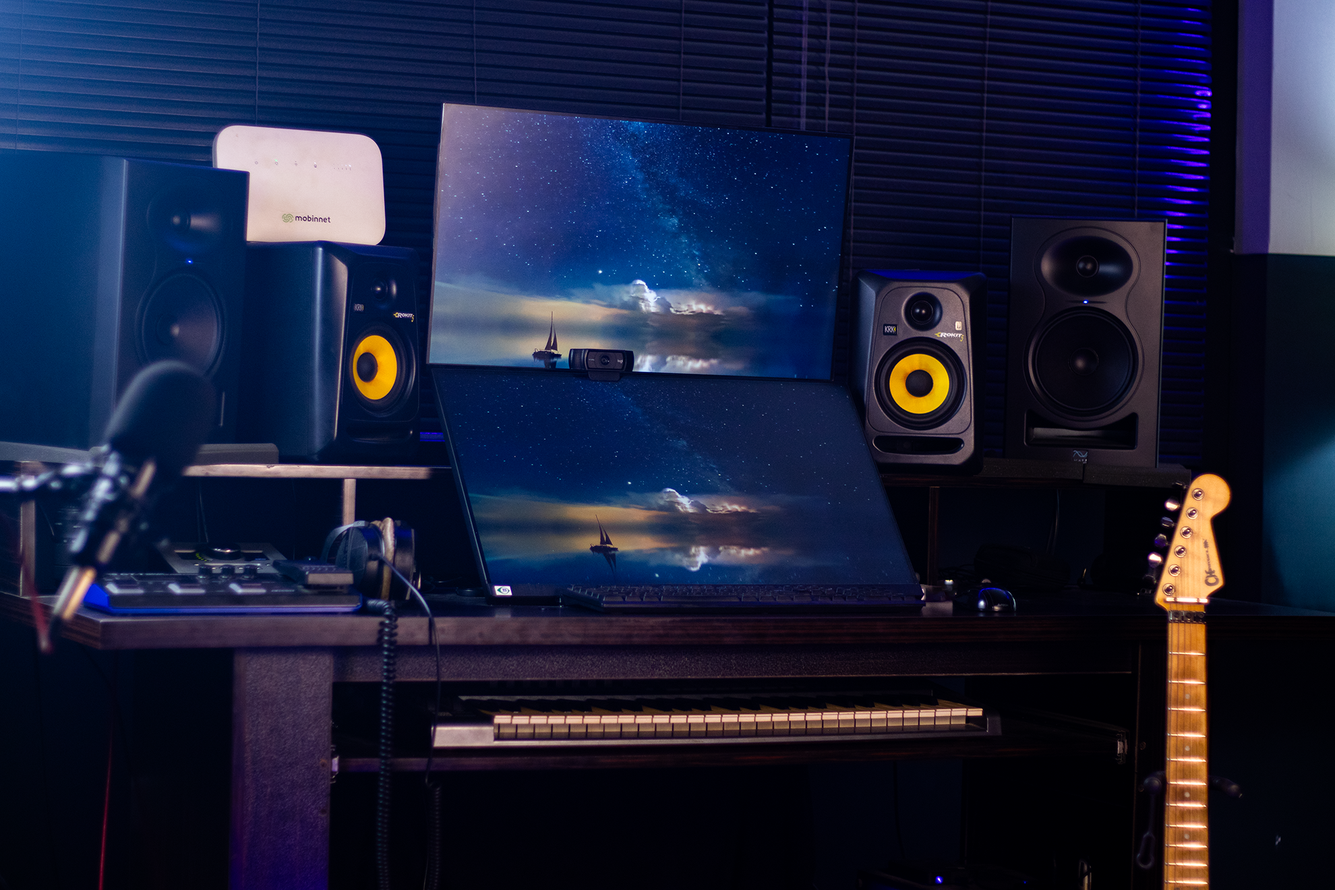
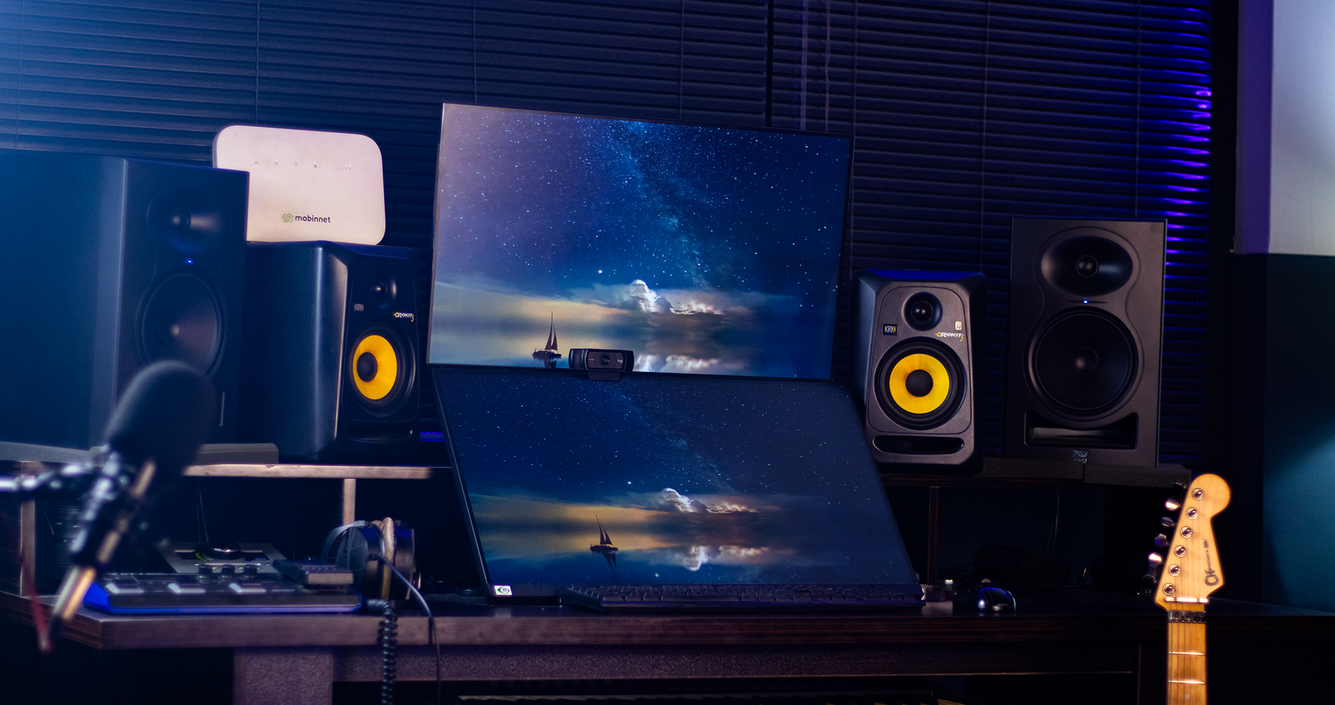
changing Hero image size

diff --git a/src/components/Hero.js b/src/components/Hero.js
@@ -15,9 +15,9 @@ export default function Hero() {
       <Image
         src="/images/poudi-hero.png"
         alt="Hero Image"
-        width={1034}
-        height={1320}
-        className="w-[52%] absolute left-0 top-0 pointer-events-none z-10 max-sm:top-4"
+        width={700}
+        height={800}
+        className="w-[42%] absolute left-0 top-0 pointer-events-none z-10 max-sm:top-4"
       />
     </header>
   );
